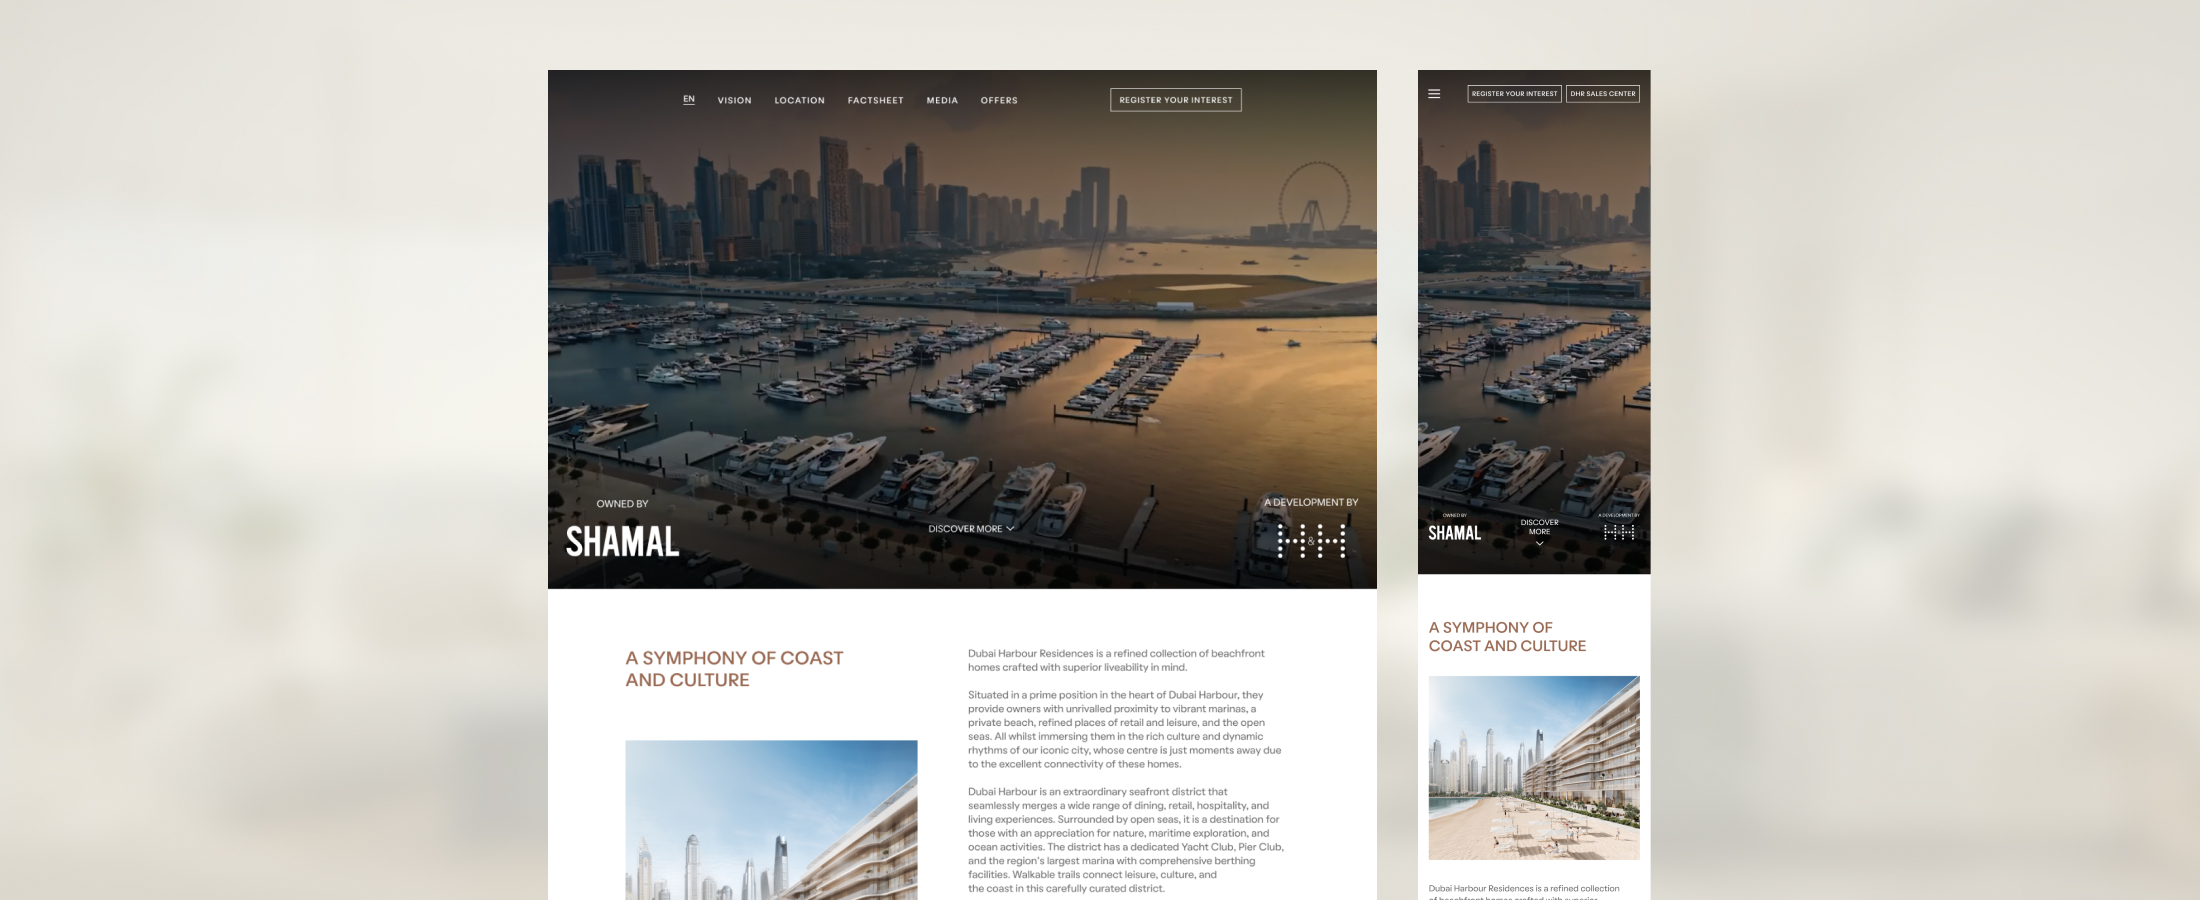
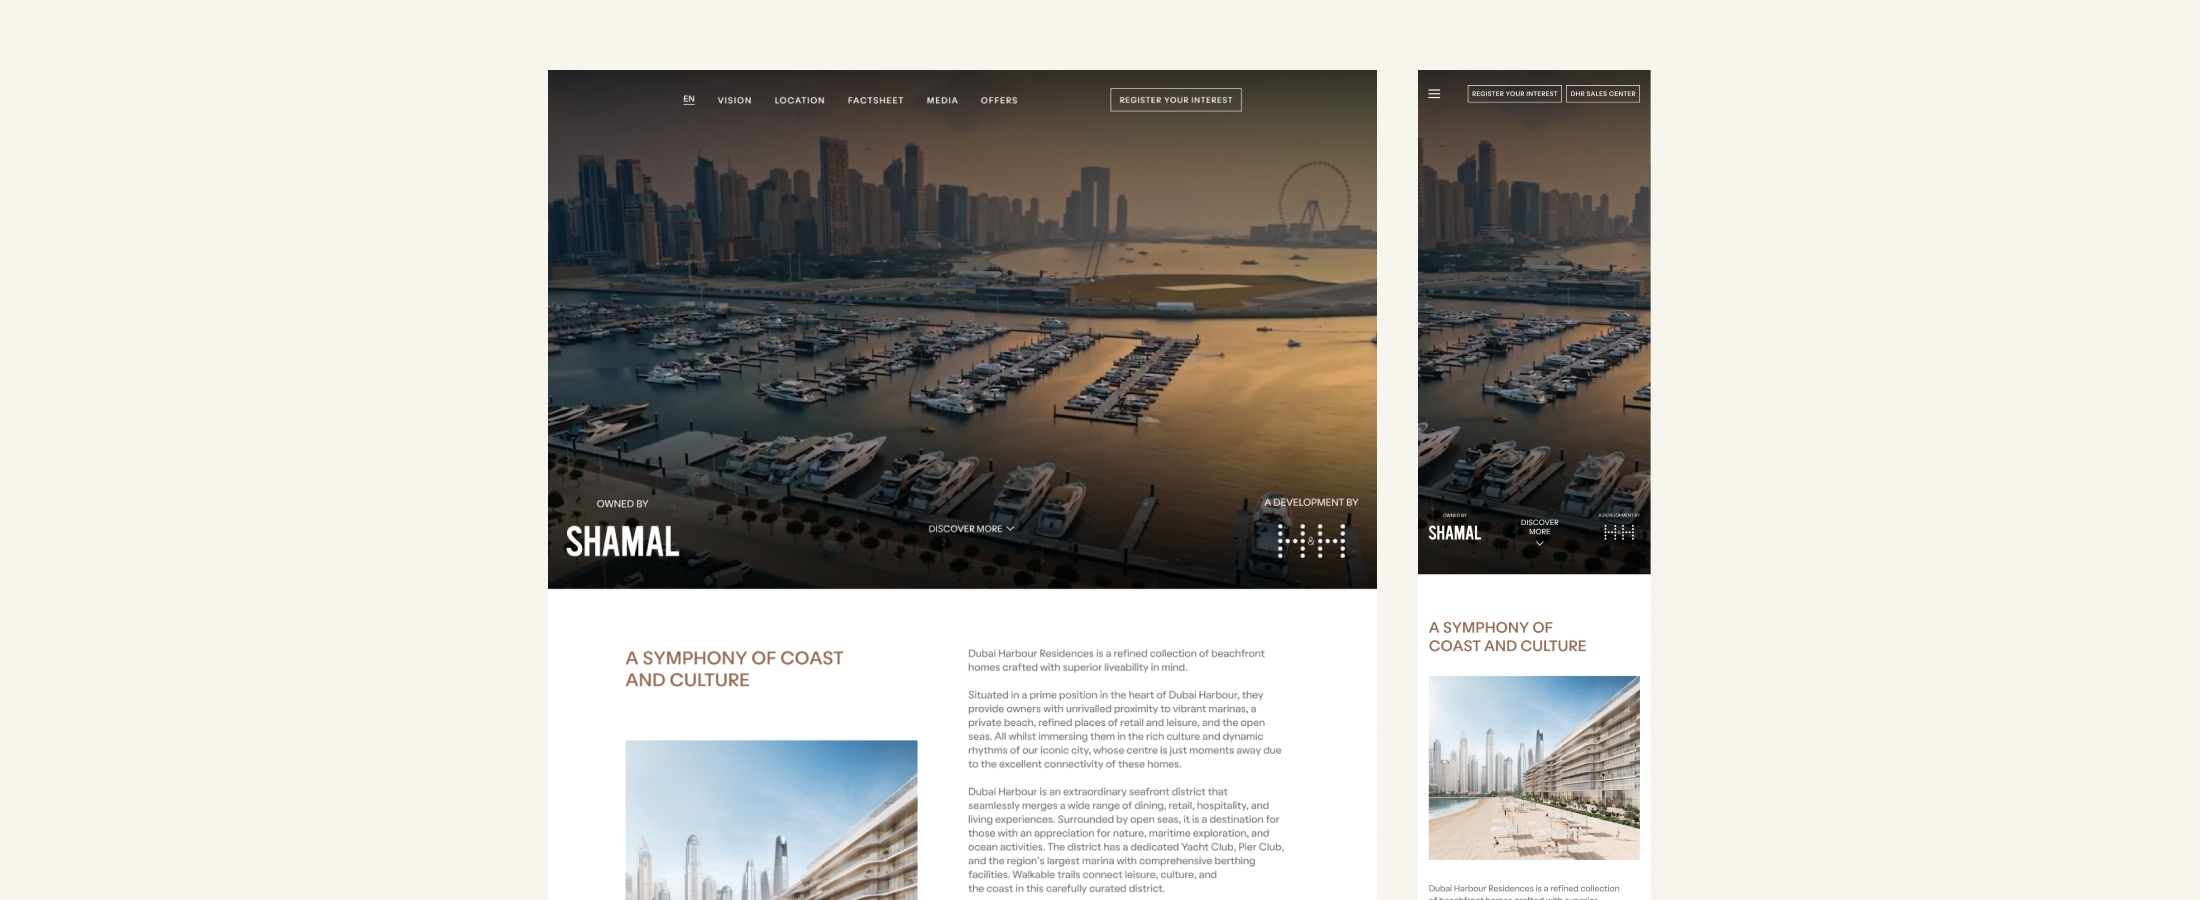
made pop-up full width

diff --git a/styles.css b/styles.css
@@ -1571,7 +1571,19 @@ ul, ol {
   opacity: 1;
 }
 
-.case-modal-container,
+.case-modal-container {
+  position: absolute;
+  inset: 0;
+  background: #ffffff;
+  box-shadow: 0 30px 90px rgba(0, 0, 0, 0.4);
+  transform: translateY(40px) scale(0.98);
+  opacity: 0;
+  transition: transform 0.5s var(--ease-editorial), opacity 0.4s ease;
+  display: flex;
+  flex-direction: column;
+  overflow: hidden;
+}
+
 .about-modal-container {
   position: absolute;
   inset: 1.5rem;
@@ -1689,6 +1701,17 @@ ul, ol {
   font-weight: 500;
   color: var(--text-primary);
   line-height: 1.45;
+}
+
+.meta-v-value a {
+  color: var(--text-primary);
+  text-decoration: underline;
+  text-underline-offset: 3px;
+  transition: opacity var(--duration-fast) ease;
+}
+
+.meta-v-value a:hover {
+  opacity: 0.7;
 }
 
 /* Narrative Prose Column */
@@ -3218,7 +3241,10 @@ ul, ol {
     width: 100% !important;
   }
   
-  .case-modal-container,
+  .case-modal-container {
+    inset: 0;
+  }
+
   .about-modal-container {
     inset: 0.5rem;
   }
@@ -3501,7 +3527,10 @@ ul, ol {
     height: 300px;
   }
 
-  .case-modal-container,
+  .case-modal-container {
+    inset: 0;
+  }
+
   .about-modal-container {
     inset: 0.25rem;
   }

diff --git a/app.js b/app.js
@@ -931,13 +931,14 @@ document.addEventListener('DOMContentLoaded', () => {
               <span class="meta-v-label">Scope</span>
               <span class="meta-v-value">${data.scope}</span>
             </div>
+            ${data.liveUrl ? `
             <div class="case-meta-vertical-item">
               <span class="meta-v-label">Live URL</span>
               <span class="meta-v-value">
                 <a href="${data.liveUrl}" target="_blank" rel="noopener noreferrer">View Project</a>
               </span>
             </div>
-
+            ` : ''}
           </div>
 
           <!-- Right: Project Narrative -->
